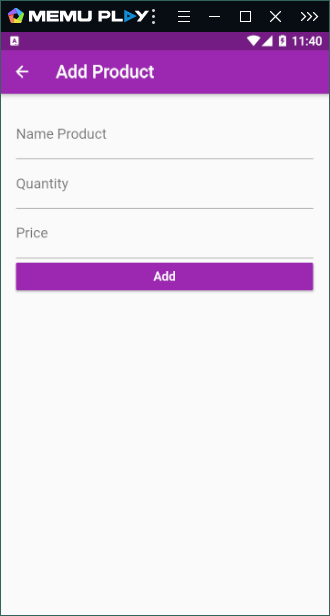
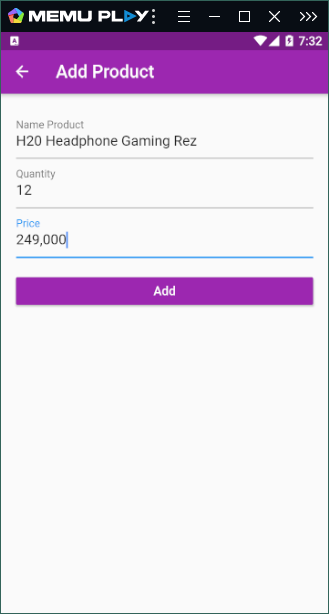
currencyformat

diff --git a/lib/views/addProduct.dart b/lib/views/addProduct.dart
@@ -1,9 +1,11 @@
 import 'dart:convert';
 
 import 'package:flutter/material.dart';
+import 'package:flutter/services.dart';
 import 'package:fluttertoast/fluttertoast.dart';
 import 'package:http/http.dart' as http;
 import 'package:rez_apps/api/server.dart';
+import 'package:rez_apps/custom/currency.dart';
 import 'package:shared_preferences/shared_preferences.dart';
 
 class AddProduct extends StatefulWidget {
@@ -37,7 +39,7 @@ class _AddProductState extends State<AddProduct> {
     final response = await http.post(BaseUrl.addproduct, body: {
       "namaProduct" : namaProduct,
       "qty" : qty,
-      "harga" : harga,
+      "harga" : harga.replaceAll(",", ""),
       "idUsers" : idUsers
     });
     final data = jsonDecode(response.body);
@@ -45,10 +47,10 @@ class _AddProductState extends State<AddProduct> {
     String message = data['message'];
 
     if (value == 1) {
-      // Fluttertoast.showToast(
-      //   msg: message,
-      //   toastLength: Toast.LENGTH_SHORT
-      // );
+      Fluttertoast.showToast(
+        msg: message,
+        toastLength: Toast.LENGTH_SHORT
+      );
       widget.reload();
       Navigator.pop(context);
     } else {
@@ -83,6 +85,7 @@ class _AddProductState extends State<AddProduct> {
                 if (e.isEmpty) {
                   return "Please insert name product";
                 }
+                return null;
               },
               onSaved: (e)=> namaProduct = e,
               decoration: InputDecoration(
@@ -94,6 +97,7 @@ class _AddProductState extends State<AddProduct> {
                 if (e.isEmpty) {
                   return "Please insert Quantity";
                 }
+                return null;
               },
               onSaved: (e)=> qty = e,
               decoration: InputDecoration(
@@ -104,12 +108,17 @@ class _AddProductState extends State<AddProduct> {
               validator: (e) {
                 if (e.isEmpty) {
                   return "Please insert Price";
-                }
+                } 
+                return null;
               },
+              inputFormatters: [
+                WhitelistingTextInputFormatter.digitsOnly, CurrencyFormat()
+              ],
               onSaved: (e)=> harga = e,
               decoration: InputDecoration(
                   labelText: "Price", hintText: "Price"),
             ),
+            Padding(padding: EdgeInsets.only(top: 20.0)),
             MaterialButton(
               onPressed: (){
                 checkForm();

diff --git a/lib/views/editProduct.dart b/lib/views/editProduct.dart
@@ -1,8 +1,10 @@
 import 'dart:convert';
 
 import 'package:flutter/material.dart';
+import 'package:flutter/services.dart';
 import 'package:fluttertoast/fluttertoast.dart';
 import 'package:rez_apps/api/server.dart';
+import 'package:rez_apps/custom/currency.dart';
 import 'package:rez_apps/model/productModel.dart';
 import 'package:http/http.dart' as http;
 
@@ -40,7 +42,7 @@ class _EditProductState extends State<EditProduct> {
     final response = await http.post(BaseUrl.updateproduct, body: {
       "namaProduct": namaProduct,
       "qty": qty,
-      "harga": harga,
+      "harga": harga.replaceAll(",", ""),
       "idProduct": widget.model.id
     });
     final data = jsonDecode(response.body);
@@ -82,6 +84,7 @@ class _EditProductState extends State<EditProduct> {
                   if (e.isEmpty) {
                     return "Please insert name product";
                   }
+                  return null;
                 },
                 onSaved: (e) => namaProduct = e,
                 decoration: InputDecoration(
@@ -93,6 +96,7 @@ class _EditProductState extends State<EditProduct> {
                   if (e.isEmpty) {
                     return "Please insert quantity product";
                   }
+                  return null;
                 },
                 onSaved: (e) => qty = e,
                 decoration: InputDecoration(
@@ -104,14 +108,18 @@ class _EditProductState extends State<EditProduct> {
                   if (e.isEmpty) {
                     return "Please insert price product";
                   }
+                  return null;
                 },
+                inputFormatters: [
+                  WhitelistingTextInputFormatter.digitsOnly, CurrencyFormat()
+                ],
                 onSaved: (e) => harga = e,
                 decoration: InputDecoration(
                     labelText: "Harga Product", hintText: "Harga Product"),
               ),
               Padding(padding: EdgeInsets.only(top: 20.0)),
               MaterialButton(
-                color: Colors.blue,
+                color: Colors.purple,
                 onPressed: () {
                   _checkForm();
                 },

diff --git a/lib/views/product.dart b/lib/views/product.dart
@@ -7,6 +7,7 @@ import 'package:rez_apps/model/productModel.dart';
 import 'package:rez_apps/views/addProduct.dart';
 import 'package:http/http.dart' as http;
 import 'package:rez_apps/views/editProduct.dart';
+import 'package:intl/intl.dart';
 
 class Product extends StatefulWidget {
   @override
@@ -14,6 +15,9 @@ class Product extends StatefulWidget {
 }
 
 class _ProductState extends State<Product> {
+  // membuat currency untuk menampilkan harga cth 15,000 ada komanya
+  final _money = NumberFormat("#,##0","en_US");
+
   // membuat list dengan identifier ke productmodel
   final list = new List<ProductModel>();
 
@@ -154,7 +158,7 @@ class _ProductState extends State<Product> {
                                         fontFamily: "Quicksand",
                                         fontSize: 16.0,
                                         fontWeight: FontWeight.bold)),
-                                Text(x.harga,
+                                Text(_money.format(int.parse(x.harga)),
                                     style: TextStyle(fontFamily: "Quicksand")),
                                 Text(x.qty,
                                     style: TextStyle(fontFamily: "Quicksand")),

diff --git a/lib/custom/currency.dart b/lib/custom/currency.dart
@@ -1,0 +1,21 @@
+import 'package:flutter/material.dart';
+import 'package:flutter/services.dart';
+import 'package:intl/intl.dart';
+
+class CurrencyFormat extends TextInputFormatter {
+  @override
+  TextEditingValue formatEditUpdate(
+      TextEditingValue oldValue, TextEditingValue newValue) {
+    if (newValue.selection.baseOffset == 0) {
+      return newValue;
+    }
+
+    double value = double.parse(newValue.text);
+    final money = NumberFormat("###,###,###", "en_US");
+    String newText = money.format(value);
+
+    return newValue.copyWith(
+        text: newText,
+        selection: TextSelection.collapsed(offset: newText.length));
+  }
+}
